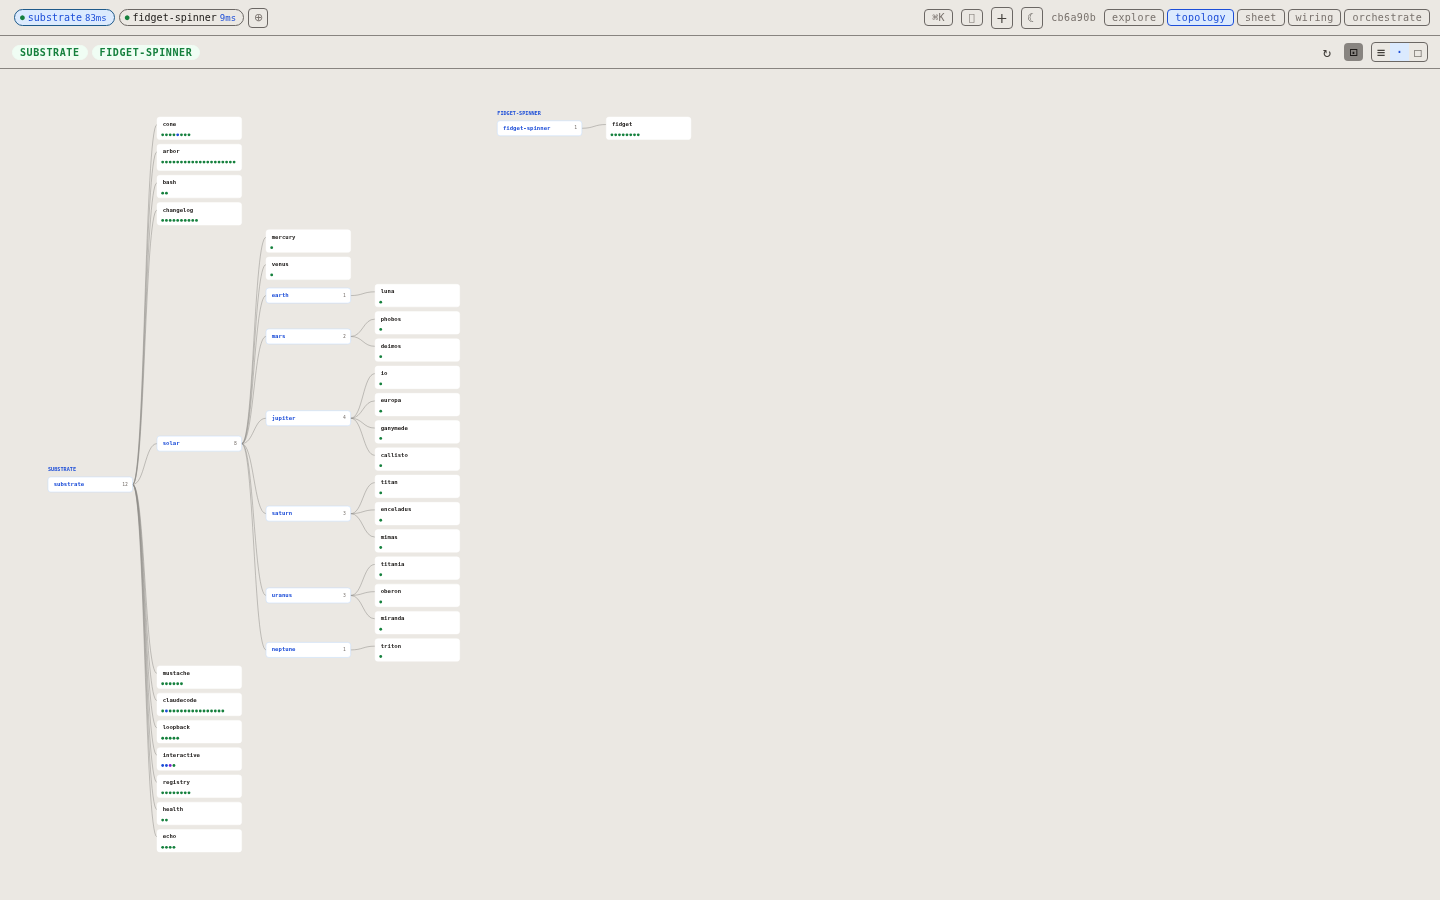
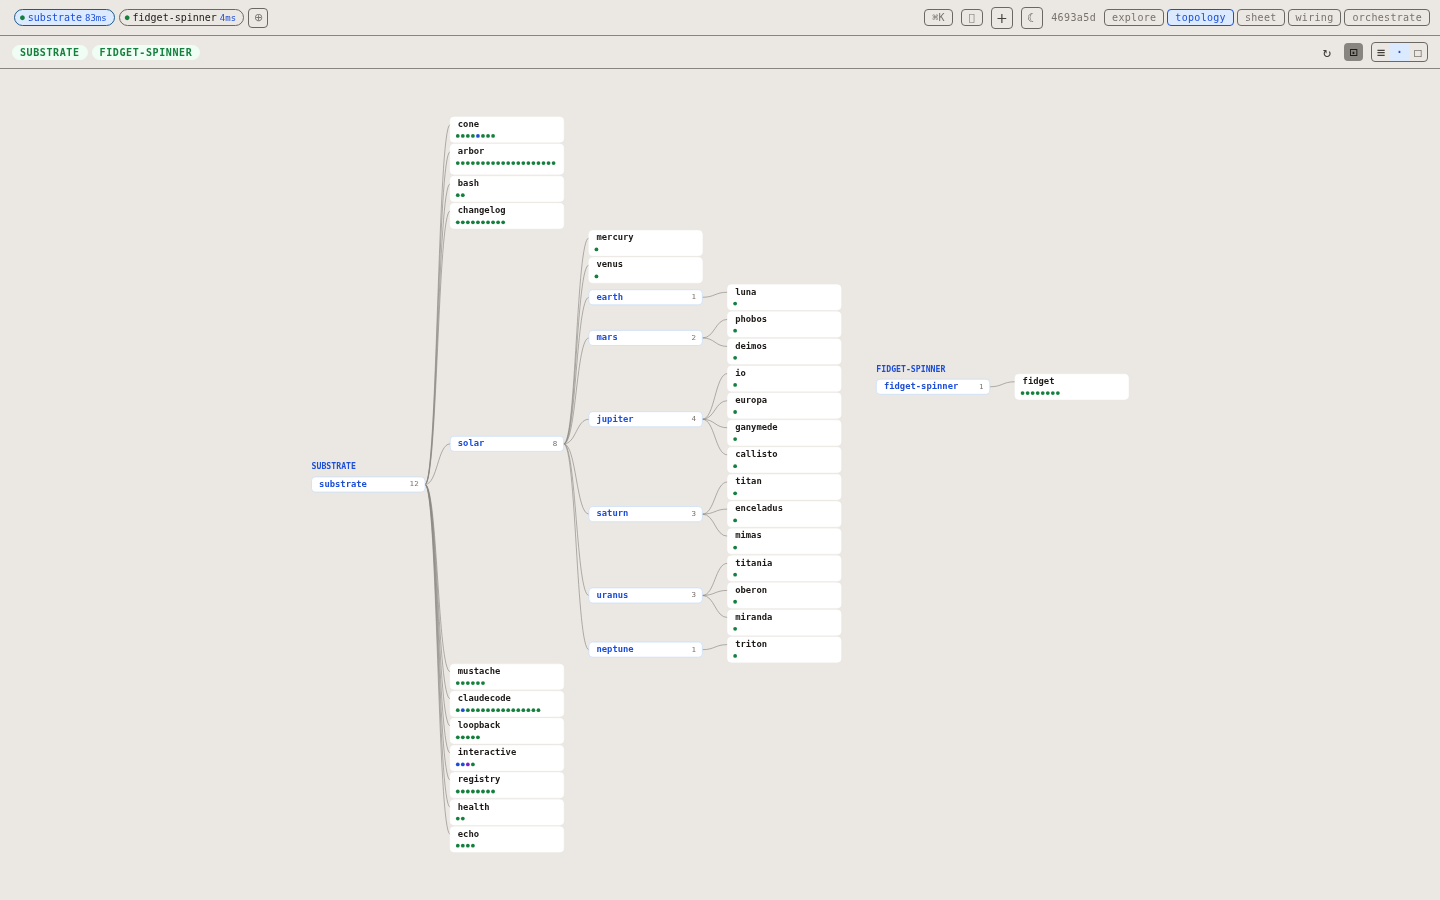
feat(topology): compact layout, larger fonts, staggered backends, centered fit-to-view

diff --git a/src/components/MultiBackendCanvas.vue b/src/components/MultiBackendCanvas.vue
@@ -74,14 +74,14 @@ let isPanning = false, lastMX = 0, lastMY = 0, mouseMoved = 0
 
 // ─── Layout constants ────────────────────────────────────────
 const NODE_W         = 180
-const HEADER_H       = 32
+const HEADER_H       = 24
 const METHOD_ROW_H   = 20
-const METHOD_PAD_B   = 8
+const METHOD_PAD_B   = 6
 const METHOD_DOT_R   = 3
 const METHOD_DOT_GAP = 8
-const H_GAP          = 52
-const V_GAP          = 10
-const BACKEND_GAP    = 80
+const H_GAP          = 40
+const V_GAP          = 3
+const BACKEND_GAP    = 56
 const FONT_MONO = 'ui-monospace, "Cascadia Code", "Fira Code", monospace'
 
 // ─── Node type ───────────────────────────────────────────────
@@ -173,15 +173,24 @@ function collectAll(node: CNode, nodes: CNode[], edges: [CNode, CNode][]): void 
 
 function rebuildAllLayouts(): void {
   let offsetX = 0
-  for (const be of backends.value) {
+  let prevHeight = 0
+  for (let i = 0; i < backends.value.length; i++) {
+    const be = backends.value[i]!
     if (!be.root) continue
     rebuildHeights(be.root)
-    const yRef = { v: 0 }
+    // Stagger each backend down by 35% of the previous backend's height
+    // so sibling trees interleave rather than sitting flush at y=0
+    const startY = i === 0 ? 0 : Math.round(prevHeight * 0.35)
+    const yRef = { v: startY }
     layoutNode(be.root, offsetX, yRef)
     be.nodes = []; be.edges = []
     collectAll(be.root, be.nodes, be.edges)
-    let maxX = 0
-    for (const n of be.nodes) maxX = Math.max(maxX, n.x + n.w)
+    let maxX = 0, maxY = -Infinity
+    for (const n of be.nodes) {
+      maxX = Math.max(maxX, n.x + n.w)
+      maxY = Math.max(maxY, n.y + n.h)
+    }
+    prevHeight = maxY - startY
     be.groupOffsetX = offsetX
     offsetX = maxX + BACKEND_GAP
   }
@@ -227,7 +236,7 @@ function drawNode(ctx: CanvasRenderingContext2D, node: CNode): void {
   ctx.stroke()
 
   ctx.fillStyle    = getCssVar(isHub ? '--accent' : '--text')
-  ctx.font         = `600 12px ${FONT_MONO}`
+  ctx.font         = `600 14px ${FONT_MONO}`
   ctx.textBaseline = 'middle'
   ctx.textAlign    = 'left'
   ctx.save()
@@ -236,7 +245,7 @@ function drawNode(ctx: CanvasRenderingContext2D, node: CNode): void {
   ctx.restore()
 
   if (isHub && node.children.length > 0) {
-    ctx.font      = `10px ${FONT_MONO}`
+    ctx.font      = `12px ${FONT_MONO}`
     ctx.fillStyle = getCssVar('--text-dim')
     ctx.textAlign = 'right'
     ctx.fillText(`${node.children.length}`, x + w - 10, y + HEADER_H / 2)
@@ -255,7 +264,7 @@ function drawNode(ctx: CanvasRenderingContext2D, node: CNode): void {
         const my = y + HEADER_H + 1 + i * METHOD_ROW_H
         const isStream = m.streaming, isBidir = m.bidirectional
         const nameColor = getCssVar(isStream ? '--accent' : isBidir ? '--purple' : '--green')
-        ctx.font = `11px ${FONT_MONO}`
+        ctx.font = `13px ${FONT_MONO}`
         ctx.textBaseline = 'middle'
         ctx.fillStyle = nameColor
         ctx.textAlign = 'left'
@@ -264,7 +273,7 @@ function drawNode(ctx: CanvasRenderingContext2D, node: CNode): void {
         ctx.fillText(m.name, x + 14, my + METHOD_ROW_H / 2)
         ctx.restore()
         if (isStream || isBidir) {
-          ctx.font = `9px ${FONT_MONO}`
+          ctx.font = `11px ${FONT_MONO}`
           ctx.fillStyle = getCssVar(isStream ? '--accent-bg' : '--purple-bg')
           ctx.textAlign = 'right'
           ctx.fillText(isStream ? '↓' : '⇄', x + w - 8, my + METHOD_ROW_H / 2)
@@ -288,7 +297,7 @@ function drawNode(ctx: CanvasRenderingContext2D, node: CNode): void {
 
 function drawBackendHeader(ctx: CanvasRenderingContext2D, be: BackendState): void {
   if (!be.root) return
-  ctx.font = `600 11px ${FONT_MONO}`
+  ctx.font = `600 13px ${FONT_MONO}`
   ctx.textAlign = 'left'
   ctx.textBaseline = 'alphabetic'
   ctx.fillStyle = getCssVar('--accent')
@@ -340,7 +349,7 @@ function fitView(): void {
   const cH = (canvas.height || 720) / dpr
   const s = Math.min((cW - pad * 2) / (maxX - minX), (cH - pad * 2) / (maxY - minY))
   scale = Math.min(Math.max(s, 0.04), 1)
-  panX = pad - minX * scale
+  panX = (cW - (maxX - minX) * scale) / 2 - minX * scale
   panY = (cH - (maxY - minY) * scale) / 2 - minY * scale
   render()
 }
